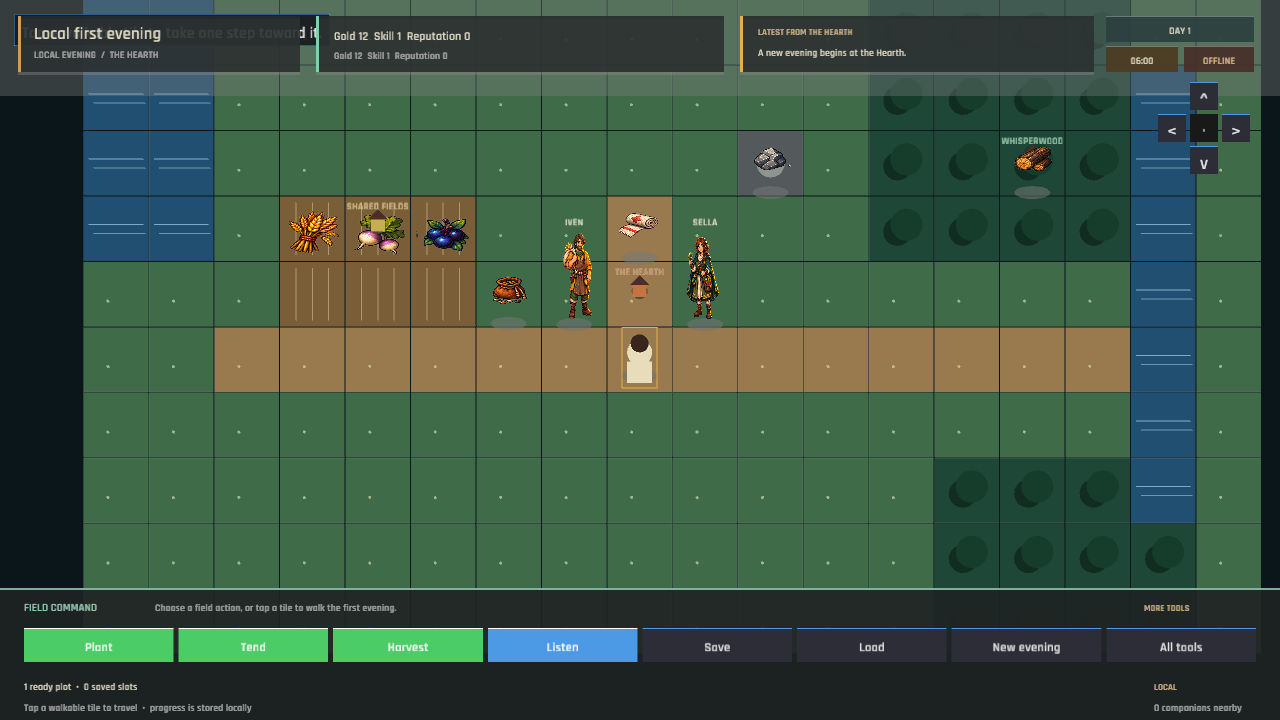
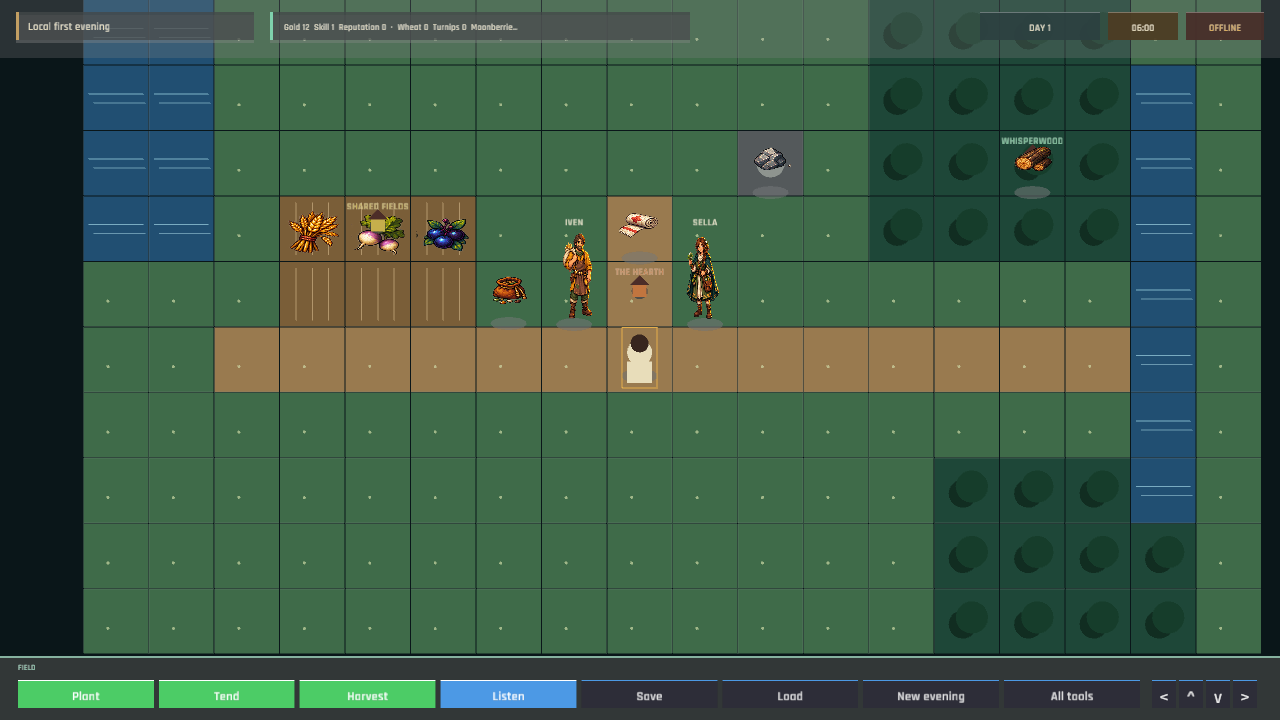
The traveller sees the whole road between each deliberate step (compact edge HUD and on-demand tools)
The world view still carried too much permanent chrome after the first full-bleed pass. Reduce the persistent HUD to a shallow status edge and a 64px command edge, remove the always-visible feed and secondary detail rows, and fold movement into a compact horizontal tap strip.

The tools grid remains behind the existing All tools action, so service controls and detailed online state appear only when requested. The top veil and tooltip exclusion now follow the smaller status edge, and the verification capture records the clearer first-evening composition. cargo test and publish.ps1 both pass; the publisher completed Windows and WebGL Preview deployment.

diff --git a/src/ui_hud.rs b/src/ui_hud.rs
@@ -6,19 +6,18 @@ use macroquad_toolkit::ui::draw_ui_text_ex;
 #[path = "ui_hud/tools.rs"]
 mod tools;
 
-pub(crate) const HUD_HEIGHT: f32 = 132.0;
+pub(crate) const HUD_HEIGHT: f32 = 64.0;
 
-const HUD_FILL: Color = Color::new(0.025, 0.040, 0.043, 0.90);
-const HUD_CARD: Color = Color::new(0.035, 0.058, 0.060, 0.88);
+const HUD_FILL: Color = Color::new(0.025, 0.040, 0.043, 0.78);
+const HUD_CARD: Color = Color::new(0.035, 0.058, 0.060, 0.76);
 
 pub(super) fn blocks_map_click(point: Vec2, menu_open: bool) -> bool {
     menu_open
         || point.y >= LOGICAL_HEIGHT - HUD_HEIGHT
-        || Rect::new(18.0, 16.0, 282.0, 56.0).contains_point(point)
-        || Rect::new(316.0, 16.0, 408.0, 56.0).contains_point(point)
-        || Rect::new(764.0, 16.0, 330.0, 56.0).contains_point(point)
-        || Rect::new(1106.0, 16.0, 148.0, 56.0).contains_point(point)
-        || Rect::new(1158.0, 82.0, 104.0, 104.0).contains_point(point)
+        || point.y <= 52.0
+        || Rect::new(16.0, 12.0, 238.0, 28.0).contains_point(point)
+        || Rect::new(270.0, 12.0, 420.0, 28.0).contains_point(point)
+        || Rect::new(980.0, 12.0, 284.0, 28.0).contains_point(point)
 }
 
 pub(super) fn draw(ctx: &UiContext<'_>, mouse: Vec2, actions: &mut Vec<UiAction>) {
@@ -32,27 +31,17 @@ pub(super) fn draw(ctx: &UiContext<'_>, mouse: Vec2, actions: &mut Vec<UiAction>
 
 fn draw_status_hud(ctx: &UiContext<'_>) {
     draw_hud_card(
-        Rect::new(18.0, 16.0, 282.0, 56.0),
-        Color::new(0.88, 0.64, 0.25, 0.90),
+        Rect::new(16.0, 12.0, 238.0, 28.0),
+        Color::new(0.88, 0.64, 0.25, 0.78),
     );
     draw_ui_text_ex(
-        ctx.identity_name.unwrap_or("Guest traveller"),
-        34.0,
-        39.0,
-        TextStyle::new(17.0, CREAM).params(),
-    );
-    draw_ui_text_ex(
-        if ctx.offline {
-            "LOCAL EVENING  /  THE HEARTH"
-        } else {
-            "SHARED ROAD  /  THE HEARTH"
-        },
-        34.0,
-        58.0,
-        TextStyle::new(10.0, dark::TEXT_DIM).params(),
+        &ellipsize(ctx.identity_name.unwrap_or("Guest traveller"), 26),
+        28.0,
+        30.0,
+        TextStyle::new(11.0, CREAM).params(),
     );
 
-    draw_hud_card(Rect::new(316.0, 16.0, 408.0, 56.0), MINT);
+    draw_hud_card(Rect::new(270.0, 12.0, 420.0, 28.0), MINT);
     let overview = ctx
         .stats
         .lines()
@@ -61,37 +50,13 @@ fn draw_status_hud(ctx: &UiContext<'_>) {
     let inventory = ctx
         .stats
         .lines()
-        .find(|line| line.starts_with("Wheat") || line.starts_with("Gold"))
+        .find(|line| line.starts_with("Wheat") || line.starts_with("Turnips"))
         .unwrap_or("Inventory is arriving…");
-    draw_ui_text_ex(overview, 334.0, 40.0, TextStyle::new(12.0, CREAM).params());
     draw_ui_text_ex(
-        inventory,
-        334.0,
-        59.0,
-        TextStyle::new(10.0, dark::TEXT_DIM).params(),
-    );
-
-    draw_hud_card(Rect::new(740.0, 16.0, 354.0, 56.0), GOLD);
-    let feed = ctx
-        .tavern_notices
-        .iter()
-        .rev()
-        .find(|notice| !notice.text.trim().is_empty())
-        .map(|notice| notice.text.as_str())
-        .or_else(|| ctx.tavern_rumours.first().map(String::as_str))
-        .or_else(|| ctx.chat.last().map(|message| message.text.as_str()))
-        .unwrap_or(ctx.status_message);
-    draw_ui_text_ex(
-        "LATEST FROM THE HEARTH",
-        758.0,
-        35.0,
-        TextStyle::new(9.0, GOLD).params(),
-    );
-    draw_ui_text_ex(
-        &ellipsize(feed, 48),
-        758.0,
-        56.0,
-        TextStyle::new(10.0, CREAM).params(),
+        &ellipsize(&format!("{overview}  •  {inventory}"), 65),
+        284.0,
+        30.0,
+        TextStyle::new(9.0, CREAM).params(),
     );
 
     let day_label = ctx
@@ -99,13 +64,13 @@ fn draw_status_hud(ctx: &UiContext<'_>) {
         .map(|season| format!("DAY {}  /  {}", ctx.day, season.to_ascii_uppercase()))
         .unwrap_or_else(|| format!("DAY {}", ctx.day));
     draw_hud_badge(
-        Rect::new(1106.0, 16.0, 148.0, 26.0),
+        Rect::new(980.0, 12.0, 120.0, 28.0),
         &day_label,
         Color::new(0.12, 0.20, 0.20, 0.94),
         CREAM,
     );
     draw_hud_badge(
-        Rect::new(1106.0, 46.0, 72.0, 26.0),
+        Rect::new(1108.0, 12.0, 70.0, 28.0),
         &format_clock(ctx.clock_minutes),
         if ctx.night {
             Color::new(0.13, 0.15, 0.28, 0.96)
@@ -115,7 +80,7 @@ fn draw_status_hud(ctx: &UiContext<'_>) {
         CREAM,
     );
     draw_hud_badge(
-        Rect::new(1184.0, 46.0, 70.0, 26.0),
+        Rect::new(1186.0, 12.0, 78.0, 28.0),
         ctx.connection.label(),
         connection_fill(ctx),
         if ctx.offline { GOLD } else { MINT },
@@ -133,29 +98,13 @@ fn draw_command_deck(ctx: &UiContext<'_>, mouse: Vec2, actions: &mut Vec<UiActio
         Color::new(0.50, 0.82, 0.68, 0.70),
     );
     draw_ui_text_ex(
-        if ctx.offline {
-            "FIELD COMMAND"
-        } else {
-            "ROAD COMMAND"
-        },
-        24.0,
-        dock.y + 23.0,
-        TextStyle::new(11.0, MINT).params(),
-    );
-    draw_ui_text_ex(
-        &ellipsize(command_hint(ctx), 112),
-        155.0,
-        dock.y + 23.0,
-        TextStyle::new(10.0, dark::TEXT_DIM).params(),
-    );
-    draw_ui_text_ex(
-        "MORE TOOLS",
-        1144.0,
-        dock.y + 23.0,
-        TextStyle::new(9.0, GOLD).params(),
+        if ctx.offline { "FIELD" } else { "ROAD" },
+        18.0,
+        dock.y + 14.0,
+        TextStyle::new(8.0, MINT).params(),
     );
 
-    let content = Rect::new(24.0, dock.y + 40.0, LOGICAL_WIDTH - 48.0, 34.0);
+    let content = Rect::new(18.0, dock.y + 24.0, 1122.0, 28.0);
     if ctx.offline {
         draw_offline_quick_row(content, mouse, actions);
     } else {
@@ -178,65 +127,31 @@ fn draw_command_deck(ctx: &UiContext<'_>, mouse: Vec2, actions: &mut Vec<UiActio
             actions,
         );
     }
-
-    let detail = deck_detail(ctx);
-    draw_ui_text_ex(
-        &ellipsize(&detail, 156),
-        24.0,
-        dock.y + 102.0,
-        TextStyle::new(10.0, CREAM).params(),
-    );
-    draw_ui_text_ex(
-        if ctx.offline {
-            "Tap a walkable tile to travel  •  progress is stored locally"
-        } else {
-            "Tap a walkable tile to travel  •  the shared road resolves each step"
-        },
-        24.0,
-        dock.y + 123.0,
-        TextStyle::new(10.0, dark::TEXT_DIM).params(),
-    );
-    draw_ui_text_ex(
-        if ctx.offline {
-            "LOCAL"
-        } else {
-            "LIVE PRESENCE"
-        },
-        1154.0,
-        dock.y + 102.0,
-        TextStyle::new(9.0, if ctx.offline { GOLD } else { MINT }).params(),
-    );
-    draw_ui_text_ex(
-        &format!(
-            "{} companion{} nearby",
-            super::ui_online::visible_companion_count(
-                ctx.remote_players,
-                ctx.own_account_id,
-                ctx.server_tick
-            ),
-            if super::ui_online::visible_companion_count(
-                ctx.remote_players,
-                ctx.own_account_id,
-                ctx.server_tick,
-            ) == 1
-            {
-                ""
-            } else {
-                "s"
-            }
-        ),
-        1154.0,
-        dock.y + 123.0,
-        TextStyle::new(10.0, dark::TEXT_DIM).params(),
-    );
-
-    draw_move_pad(
-        1158.0,
-        82.0,
+    draw_compact_move_strip(
+        1152.0,
+        dock.y + 24.0,
         mouse,
         actions,
-        !ctx.menu_open && super::ui_online::movement_enabled(ctx),
+        super::ui_online::movement_enabled(ctx),
     );
+}
+
+fn draw_compact_move_strip(
+    x: f32,
+    y: f32,
+    mouse: Vec2,
+    actions: &mut Vec<UiAction>,
+    enabled: bool,
+) {
+    for (index, (label, dx, dy)) in [("<", -1, 0), ("^", 0, -1), ("v", 0, 1), (">", 1, 0)]
+        .iter()
+        .enumerate()
+    {
+        let rect = Rect::new(x + index as f32 * 27.0, y, 24.0, 28.0);
+        if super::virtual_button(rect, label, enabled, ButtonTone::Secondary, mouse) {
+            actions.push(UiAction::Move(*dx, *dy));
+        }
+    }
 }
 
 fn draw_tools_overlay(ctx: &UiContext<'_>, mouse: Vec2, actions: &mut Vec<UiAction>) {
@@ -422,52 +337,6 @@ fn connection_fill(ctx: &UiContext<'_>) -> Color {
         ConnectionState::Degraded => Color::new(0.28, 0.20, 0.10, 0.96),
         ConnectionState::Offline => Color::new(0.25, 0.15, 0.13, 0.96),
     }
-}
-
-fn command_hint(ctx: &UiContext<'_>) -> &'static str {
-    if ctx.offline {
-        "Choose a field action, or tap a tile to walk the first evening."
-    } else if ctx.knocked_out {
-        "Recovery is ready in the tools deck."
-    } else {
-        "Shape the road with the people and places around you."
-    }
-}
-
-fn deck_detail(ctx: &UiContext<'_>) -> String {
-    if ctx.offline {
-        return format!(
-            "{} ready plot{}  •  {} saved slot{}",
-            ctx.world
-                .crops
-                .data()
-                .iter()
-                .filter_map(|crop| *crop)
-                .filter(crate::state::CropState::mature)
-                .count(),
-            if ctx
-                .world
-                .crops
-                .data()
-                .iter()
-                .filter_map(|crop| *crop)
-                .filter(crate::state::CropState::mature)
-                .count()
-                == 1
-            {
-                ""
-            } else {
-                "s"
-            },
-            ctx.save_slots.len(),
-            if ctx.save_slots.len() == 1 { "" } else { "s" },
-        );
-    }
-    super::online_footer_detail(
-        ctx.stats,
-        super::ui_online::visible_player_count(ctx.remote_players, ctx.server_tick),
-        super::pending_trade_detail(ctx.trades, ctx.own_account_id).as_deref(),
-    )
 }
 
 fn ellipsize(value: &str, max_chars: usize) -> String {

diff --git a/src/ui.rs b/src/ui.rs
@@ -109,8 +109,8 @@ fn draw_world_stage(ctx: &UiContext<'_>) -> Rect {
         0.0,
         0.0,
         LOGICAL_WIDTH,
-        96.0,
-        Color::new(0.015, 0.025, 0.028, 0.24),
+        58.0,
+        Color::new(0.015, 0.025, 0.028, 0.16),
     );
     rect
 }
@@ -159,39 +159,6 @@ fn regional_inspection_action_allowed(action: &UiAction) -> bool {
 fn crafting_action_allowed(action: &UiAction) -> bool {
     matches!(action, UiAction::Interact(id) if id == "crafting-timing")
         || is_recovery_action(action)
-}
-
-fn draw_move_pad(x: f32, y: f32, mouse: Vec2, actions: &mut Vec<UiAction>, enabled: bool) {
-    let size = 28.0;
-    let gap = 4.0;
-    let button = |x: f32, y: f32, label: &str, action: &mut Vec<UiAction>| {
-        if virtual_button(
-            Rect::new(x, y, size, size),
-            label,
-            enabled,
-            ButtonTone::Secondary,
-            mouse,
-        ) {
-            match label {
-                "^" => action.push(UiAction::Move(0, -1)),
-                "<" => action.push(UiAction::Move(-1, 0)),
-                ">" => action.push(UiAction::Move(1, 0)),
-                "v" => action.push(UiAction::Move(0, 1)),
-                _ => {}
-            }
-        }
-    };
-    button(x + size + gap, y, "^", actions);
-    button(x, y + size + gap, "<", actions);
-    virtual_button(
-        Rect::new(x + size + gap, y + size + gap, size, size),
-        "•",
-        false,
-        ButtonTone::Secondary,
-        mouse,
-    );
-    button(x + (size + gap) * 2.0, y + size + gap, ">", actions);
-    button(x + size + gap, y + (size + gap) * 2.0, "v", actions);
 }
 
 fn virtual_button(rect: Rect, label: &str, enabled: bool, tone: ButtonTone, mouse: Vec2) -> bool {
